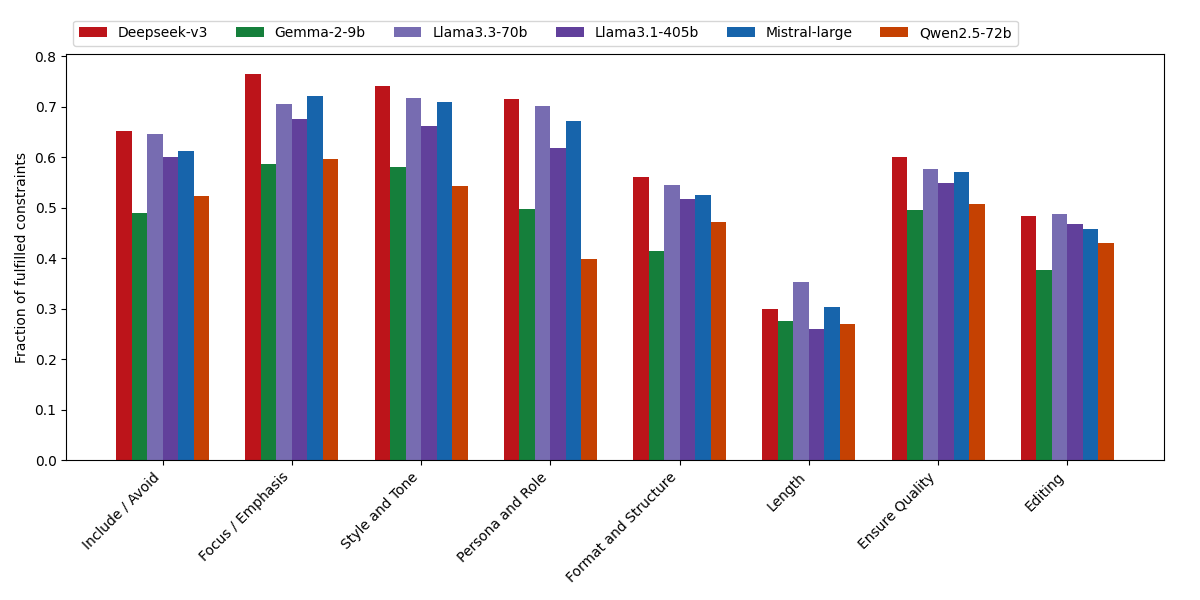
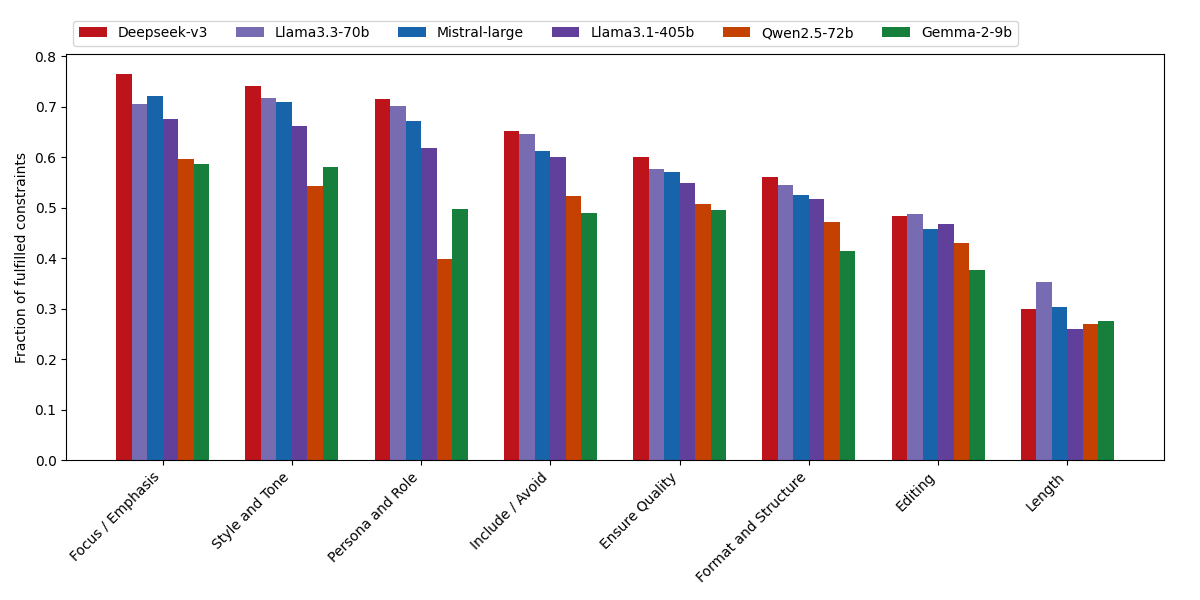
for paper

diff --git a/routing/plot_correlations.py b/routing/plot_correlations.py
@@ -420,8 +420,11 @@ def calculate(paths):
 
     plt.figure("bar plot of mean score by category only big models")
     bar_width = 0.12
-    models_to_include = ["Deepseek-v3", "Gemma-2-9b", "Llama3.3-70b", "Llama3.1-405b",  "Mistral-large",  "Qwen2.5-72b"]
+    models_to_include = ["Deepseek-v3", "Llama3.3-70b", "Mistral-large", "Llama3.1-405b", "Qwen2.5-72b", "Gemma-2-9b"]
+    reorg_categories = ["Focus / Emphasis", "Style and Tone", "Persona and Role", "Include / Avoid", "Ensure Quality", "Format and Structure", "Editing", "Length"]
+    reorg_categories_idx = [category_constraint_labels.index(cat) for cat in reorg_categories]
     only_big_model_scores = all_cat_scores[:, [models_sorted.index(model) for model in models_to_include]]
+    only_big_model_scores = only_big_model_scores[reorg_categories_idx]
     only_big_model_colors = [model_colors[models_sorted.index(model)] for model in models_to_include]
     fig, ax = plt.subplots(figsize=(12, 6))
 
@@ -430,7 +433,7 @@ def calculate(paths):
 
     # Formatting
     ax.set_xticks(x + (bar_width * (len(models_to_include) - 1)) / 2)
-    ax.set_xticklabels(category_constraint_labels, rotation=45, ha='right')
+    ax.set_xticklabels(reorg_categories, rotation=45, ha='right')
     ax.set_ylabel('Fraction of fulfilled constraints')
     ax.legend(bbox_to_anchor=(0, 1.1), loc='upper left', ncol=len(models_to_include))
     plt.tight_layout()

diff --git a/dataset_analysis/parse_human_results.py b/dataset_analysis/parse_human_results.py
@@ -79,7 +79,7 @@ for i in range(len(unique_names)):
 # print("Mean Weighted Cohen's Kappa (Linear):", np.mean(correctness_mean))
 
 
-df_llm_aaj_annotations = pd.read_csv("results/llm_aaj_annotations.csv")
+df_llm_aaj_annotations = pd.read_csv("results/llm_aaj_annotations_asaf.csv")
 y_true = df_llm_aaj_annotations["binary_score"].tolist()
 y_pred = df_llm_aaj_annotations["human_eval"].tolist()
 hamming = hamming_loss(y_true, y_pred)
